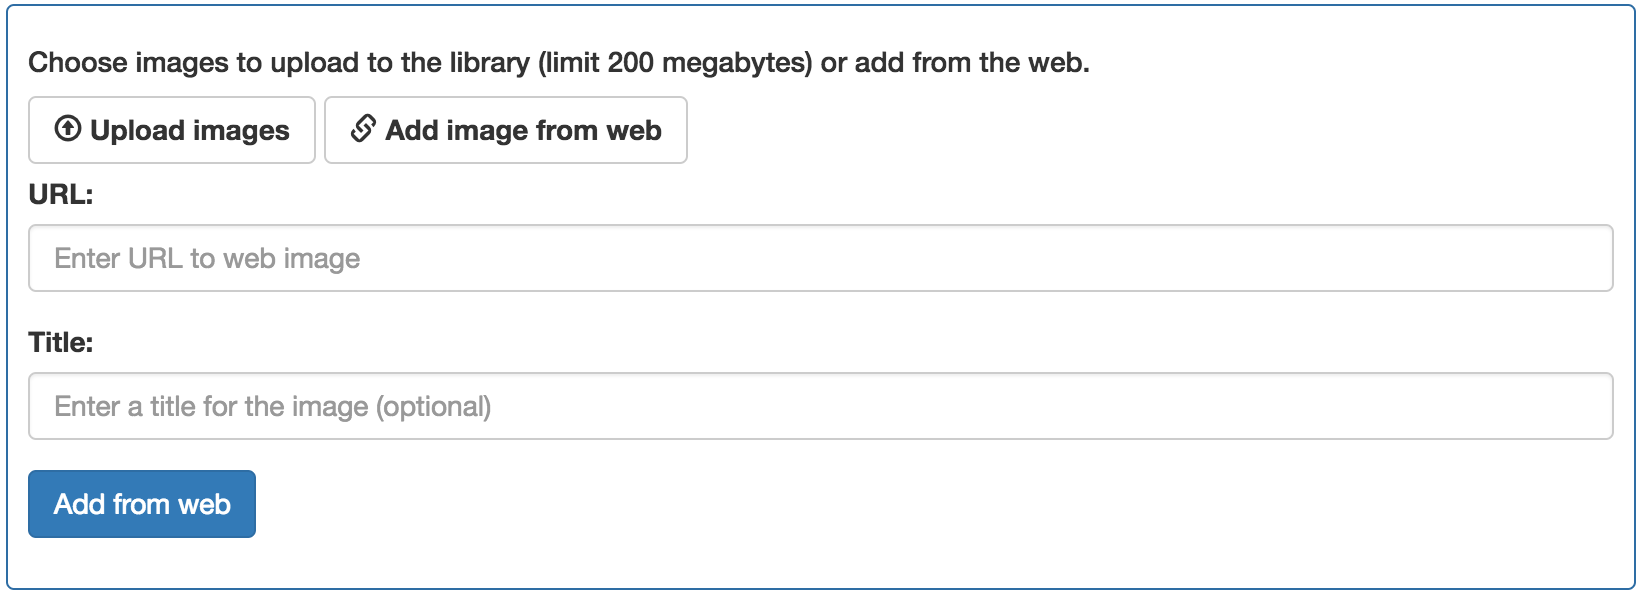
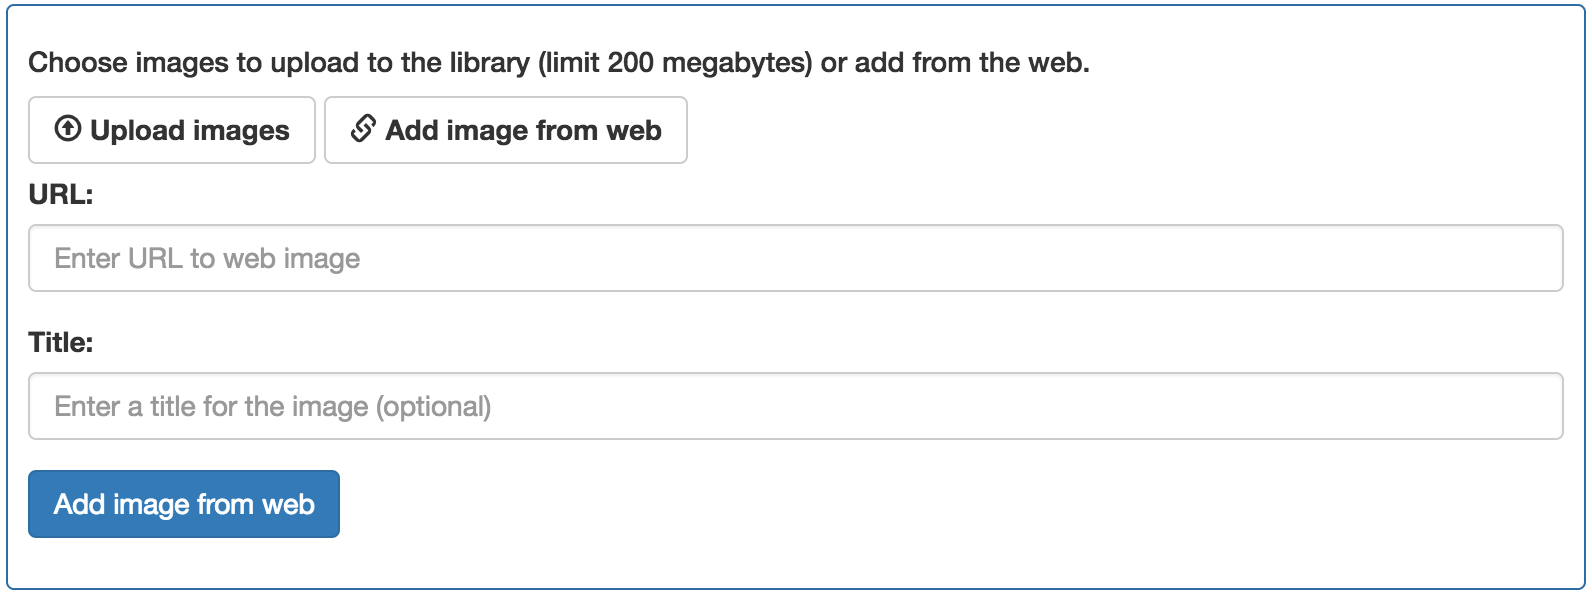
ATGU-581_MediaManagerAddImageWeb - screen capture and UI code of proposed interface

diff --git a/ATGU-581_MediaManagerAddImageWeb/index.html b/ATGU-581_MediaManagerAddImageWeb/index.html
@@ -3,4 +3,5 @@
         id="webimage-btn"
         class="btn btn-primary"
         ng-disabled="wc.webimage.url.checkValidity()"
-        ng-click="wc.onClickSubmitWebImage()">Add from web</button>
+        ng-click="wc.onClickSubmitWebImage()">Add image from web</button>
+<!--UI comment - consistent button labels-->
